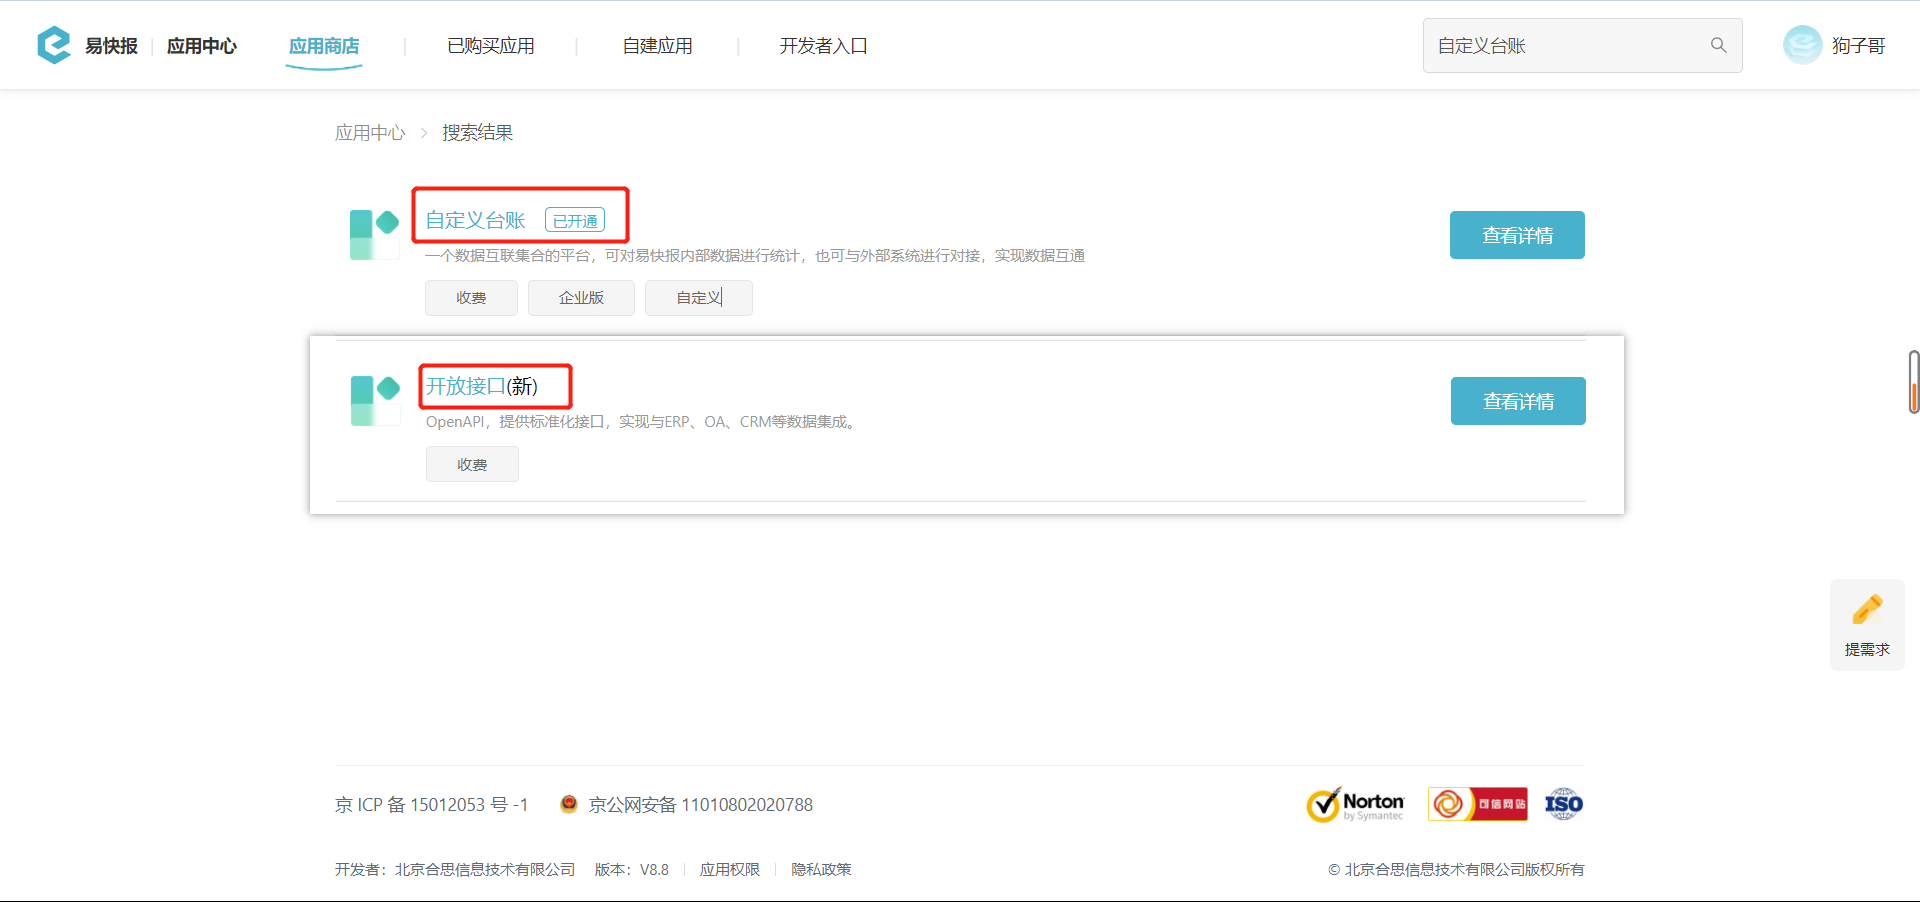
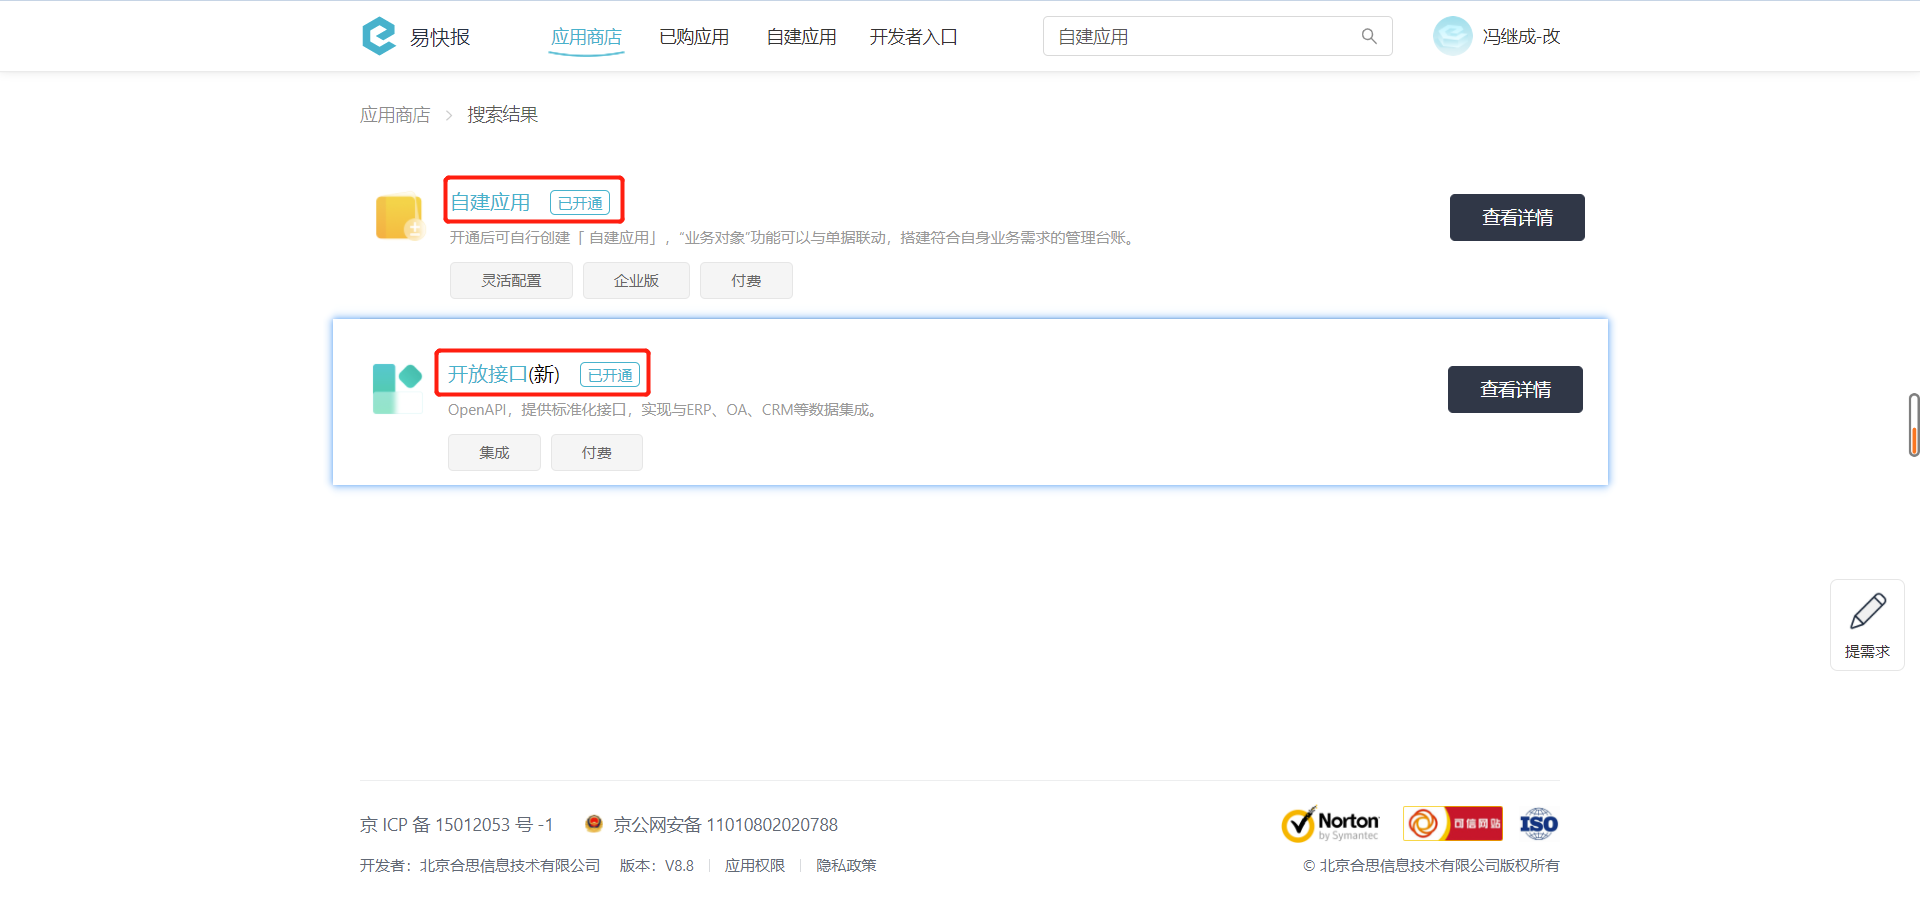
1.更新“开放接口（新）”获取秘钥的图片； 2.更新“自建应用”介绍图片；

diff --git a/sidebars.js b/sidebars.js
@@ -244,25 +244,25 @@ const sidebars = {
       type: "category",
       label: "扩展中心",
       items: [
-        "open-api/datalink/introduce2",
-        "open-api/datalink/get-entity-object",
-        "open-api/datalink/get-flow-invoice",
-        "open-api/datalink/get-entity-invoice",
-        "open-api/datalink/get-entity-invoic-details",
-        "open-api/datalink/get-entity-invoic-details-batch",
-        "open-api/datalink/riskTag",
-        "open-api/datalink/get-entity-private-car",
-        "open-api/datalink/get-entity-ele",
-        "open-api/datalink/get-entity-ik-crm",
-        "open-api/datalink/get-entity-travel",
-        "open-api/datalink/get-entity-invoice-img",
-        "open-api/datalink/get-settlement-list",
-        "open-api/datalink/ldap",
-        "open-api/datalink/get-costcenter-config",
-        "open-api/datalink/get-costcenter-instance",
-        "open-api/datalink/get-entity-unify-corporation",
-        "open-api/datalink/get-entity-unify-invoice",
-        "open-api/datalink/question-answer2"
+        "open-api/datalink-extend/introduce",
+        "open-api/datalink-extend/get-entity-object",
+        "open-api/datalink-extend/get-flow-invoice",
+        "open-api/datalink-extend/get-entity-invoice",
+        "open-api/datalink-extend/get-entity-invoic-details",
+        "open-api/datalink-extend/get-entity-invoic-details-batch",
+        "open-api/datalink-extend/riskTag",
+        "open-api/datalink-extend/get-entity-private-car",
+        "open-api/datalink-extend/get-entity-ele",
+        "open-api/datalink-extend/get-entity-ik-crm",
+        "open-api/datalink-extend/get-entity-travel",
+        "open-api/datalink-extend/get-entity-invoice-img",
+        "open-api/datalink-extend/get-settlement-list",
+        "open-api/datalink-extend/ldap",
+        "open-api/datalink-extend/get-costcenter-config",
+        "open-api/datalink-extend/get-costcenter-instance",
+        "open-api/datalink-extend/get-entity-unify-corporation",
+        "open-api/datalink-extend/get-entity-unify-invoice",
+        "open-api/datalink-extend/question-answer"
       ],
     },
     {

diff --git a/docs/open-api/datalink/introduce.md b/docs/open-api/datalink/introduce.md
@@ -6,26 +6,26 @@ authors: [张国阳]
 
 # 开始使用自建应用
 
-由于升级迭代，【自建应用】为原来的【自定义扩展】，【业务对象】分别为原来的【互联平台】、【数据实体】。
+---
+## 迭代更名图 
+
+![image](images/迭代图.png)
 
 ---
 ## 名词解释
 
 :::tip
-`自建应用` ：由客户的系统管理员，通过产品提供的可以高度自定义的功能，并结合OpenAPI等开放能力，自行搭建的个性化应用，仅在当前企业内生效，可以与企业内其他功能和应用结合。
-
-每个自建应用对应了一个外部系统，例如「销售易CRM」「致远OA」等。
-
-每个自建应用可以创建一个或多个业务对象，业务对象对应的是外部系统中的业务对象，例如「销售易CRM」中的「客户」「商机」「线索」。
-
-通过业务对象的定义，用户可在易快报系统中产生若干份对象实例，例如「销售易CRM」中的「客户」实体，有「客户1」「客户2」「客户3」三个实例。
+`自建应用/自定义扩展` ：由客户的系统管理员，通过产品提供的可以高度自定义的功能，并结合OpenAPI等开放能力，自行搭建的个性化应用，仅在当前企业内生效，可以与企业内其他功能和应用结合。
+- 每个自建应用对应了一个外部系统，例如「销售易CRM」、「致远OA」等。
+- 每个自建应用可以创建一个或多个业务对象，对应外部系统中的业务对象，例如「销售易CRM」中的「客户」、「商机」、「线索」。
+- 通过业务对象的定义，用户可在易快报系统中产生若干份对象实例，例如「销售易CRM」中的「客户」实体，有「客户1」、「客户2」、「客户3」三个实例。
 :::
 
-（1）创建自建应用
+### （1）创建自建应用
 
 ![image](images/自建应用/1.创建应用.png)
 
-（2）添加业务对象
+### （2）添加业务对象
 
 ![image](images/自建应用/2.添加业务对象.png)
 
@@ -39,9 +39,9 @@ authors: [张国阳]
 
 ---
 ## 使用前提
-在使用自建应用接口前，请确保您的企业已经开启了`开放接口(新)`与`自定义台账`功能。
+在使用自建应用接口前，请确保您的企业已经开启了 **【开放接口(新)】** 与 **【自建应用】** 功能。
 
-您可以联系您的实施顾问来开通此功能，也可以拨打客服热线`400-999-8293`获取更多支持。
+您可以联系您的实施顾问来开通此功能，也可以拨打客服热线 **400-999-8293** 获取更多支持。
 
 ![image](images/自建应用/1.没有相关charge.png)
 

diff --git a/docs/open-api/budget/budget-introduction.md b/docs/open-api/budget/budget-introduction.md
@@ -9,25 +9,25 @@ authors: [张国阳]
 ---
 ## 概念
 
-### 什么是“预算树”？
+### 1.什么是“预算树”？
 
-在易快报桌面端 `预算管理 > 预算包管理` 界面，每个“文件夹”代表了一个 `预算树` ， `预算树` 包括了若干个 `预算节点`。<br/>
-点击“文件夹”进入预算详情页，页面左侧树形列表的每个节点就是一个 `预算节点` 。
+在易快报桌面端 **预算管理 > 预算包管理** 界面，每个“文件夹”代表了一个 **预算树** ， **预算树** 包括了若干个 **预算节点**。<br/>
+点击“文件夹”进入预算详情页，页面左侧树形列表的每个节点就是一个 **预算节点** 。
 
-下图展示了 `预算树` 列表在产品界面上的展示，这个列表可通过[获取预算树列表](/docs/open-api/budget/get-budget-list)接口取得。
+下图展示了 **预算树** 列表在产品界面上的展示，这个列表可通过[获取预算树列表](/docs/open-api/budget/get-budget-list)接口取得。
 ![预算树](images/budgets_index.png)      
 
 ---
-### “预算节点”在哪里？
+### 2.“预算节点”在哪里？
 
-下图展示了[预算详情页](/docs/open-api/budget/get-budget-details)以及 `预算节点` 在产品界面上的展示。
+下图展示了[预算详情页](/docs/open-api/budget/get-budget-details)以及 **预算节点** 在产品界面上的展示。
 ![预算树详情](images/budget_info.png)
 
 ---
 ## 使用前提
-在使用预算包相关接口前，请确保您的企业已经开启了 **开放接口(新)** 与 **预算管理** 功能。
+在使用预算包相关接口前，请确保您的企业已经开启了 **【开放接口(新)】** 与 **【预算管理】** 功能。
     
-您可以联系您的实施顾问来开通此功能，也可以拨打客服热线 `400-999-8293` 获取更多支持。
+您可以联系您的实施顾问来开通此功能，也可以拨打客服热线 **400-999-8293** 获取更多支持。
 
 ![image](images/预算管理.png)
 

diff --git a/docs/open-api/getting-started/question-answer.md b/docs/open-api/getting-started/question-answer.md
@@ -6,29 +6,31 @@
 
 A：需要进入【易快报】-【应用中心】-【开放接口(新)】，然后创建或查看密钥。具体操作步骤如下：<br/>
 
-（1）应用中心入口
+#### （1）应用中心入口
 
 ![如何获取验证码](images/getAccessTokenNew1.png)
 
-（2）搜索开放接口
+#### （2）搜索“开放接口”
 
 ![如何获取验证码](images/getAccessTokenNew2.png)
 
-（3）击进入开放接口(新)详情
+#### （3）点击查看详情
 
 ![如何获取验证码](images/getAccessTokenNew3.png)
 
-（4）点击商品配置，会进入原来的页面
+#### （4）点击商品配置，查看接入账号和密码
 
-![如何获取验证码](images/getToken2.png)
+![如何获取验证码](images/getAccessTokenNew4.png)
+
+![如何获取验证码](images/getAccessTokenNew5.png)
 
 ---
 
 ## 问题二
 
-### Q：通过[访问临时授权](/docs/open-api/getting-started/temp-auth)接口取得的地址，跳转失败，显示404 Not Found 或者一直处于加载状态。
+### Q：通过[访问临时授权](/docs/open-api/getting-started/temp-auth)接口取得的地址，跳转失败，显示 “404 Not Found” 或者一直处于加载状态。
 
-A：请查看接口各个参数是否配置正确。`expireDate` 是否过短，造成访问时已超过使用期限。该参数最大可传604800，可根据实际需求调整。并且需要同时指定 `overdueTokenRedirect`，以防没有权限时重定向到指定页面。
+A：请查看接口各个参数是否配置正确。`expireDate` 是否过短，造成访问时已超过使用期限。该参数最大可传604800秒，可根据实际需求调整。另外可以指定 `overdueTokenRedirect`，以防授权过期时重定向到指定页面。
 
 ---
 

diff --git a/docs/open-api/getting-started/getting-started.md b/docs/open-api/getting-started/getting-started.md
@@ -3,7 +3,7 @@
 ---
 在调用接口之前，您需要先确认以下操作：
 
-1. 确保企业已经开启了 `开放接口(新)` 功能。您可以联系您的实施顾问来开通此功能。
+1. 确保企业已经开启了 **【开放接口(新)】** 功能。您可以联系您的实施顾问来开通此功能。
 2. 取得[地址前缀](/docs/open-api/getting-started/origin)。开放接口地址会随着易快报系统升级而变化。因此要确保每次调用使用的都是最新的地址前缀。
 3. 通过[授权](/docs/open-api/getting-started/auth)取得 `accessToken`。开放接口均使用 `accessToken` 鉴权，请妥善保管。
 

diff --git a/docs/open-api/contacts/contact-introduction.md b/docs/open-api/contacts/contact-introduction.md
@@ -12,7 +12,7 @@ authors: [冯继成]
 
 :::danger
 - **此套接口仅可用于易快报独立版。**  
-- 开通 **通讯录接口** 功能后，您将 **无法在易快报界面上维护通讯录（新增部门和员工等）**，只能通过接口更新和删除。
+- 开通 **【通讯录接口】** 功能后，您将 **无法在易快报界面上维护通讯录（新增部门和员工等）**，只能通过接口更新和删除。
 :::
 
 ---

diff --git a/docs/open-api/contacts/batch-add-staffs.md b/docs/open-api/contacts/batch-add-staffs.md
@@ -1,5 +1,5 @@
 # 批量新增员工
-当员工新增到企业后，该员工可通过 `快捷登录`（短信验证码登录）的方式进入易快报，或者通过 `忘记密码` 来设置密码。
+当员工新增到企业后，该员工可通过 **快捷登录**（短信验证码登录）的方式进入易快报，或者通过 **忘记密码** 来设置密码。
 
 import Control from "../../../components/Control";
 

diff --git a/docs/open-api/contacts/add-staffs.md b/docs/open-api/contacts/add-staffs.md
@@ -1,5 +1,5 @@
 # 新增员工
-当员工新增到企业后，该员工可通过 `快捷登录`（短信验证码登录）的方式进入易快报，或者通过 `忘记密码` 来设置密码。
+当员工新增到企业后，该员工可通过 **快捷登录**（短信验证码登录）的方式进入易快报，或者通过 **忘记密码** 来设置密码。
 
 import Control from "../../../components/Control";
 

diff --git a/docs/open-api/dimensions/get-dimensions.md b/docs/open-api/dimensions/get-dimensions.md
@@ -1,5 +1,5 @@
 # 获取自定义档案类别
-即易快报桌面端 `档案设置 > 扩展档案` 界面列表中展示的那些档案大类。例如 `项目` 就是一个自定义档案类别。
+即易快报桌面端 **档案设置 > 扩展档案** 界面列表中展示的那些档案大类。例如 **项目** 就是一个自定义档案类别。
 
 import Control from "../../../components/Control";
 

diff --git a/docs/open-api/getting-started/refresh-auth.md b/docs/open-api/getting-started/refresh-auth.md
@@ -10,7 +10,7 @@ url="/api/openapi/v2/auth/refreshToken"
 
 :::caution
 - 刷新后 `accessToken` 的有效期为默认32天。
-- 如果您企业的 **开放接口(新)** 功能授权不足32天，则刷新后有效期为实际剩余授权时间。
+- 如果您企业的 **【开放接口(新)】** 功能授权不足32天，则刷新后有效期为实际剩余授权时间。
 :::
 
 ## Query Parameters

diff --git a/docs/open-api/getting-started/refresh-auth-expireDate.md b/docs/open-api/getting-started/refresh-auth-expireDate.md
@@ -9,7 +9,7 @@ url="/api/openapi/v2/auth/refreshToken/expireDate"
 />
 
 :::caution
-- 如果您企业的 **开放接口(新)** 功能授权不足指定有效时间，则刷新后有效期为实际剩余授权时间。
+- 如果您企业的 **【开放接口(新)】** 功能授权不足指定有效时间，则刷新后有效期为实际剩余授权时间。
 :::
 
 ## Query Parameters

diff --git a/docs/open-api/contacts/relay-staff.md b/docs/open-api/contacts/relay-staff.md
@@ -1,5 +1,5 @@
 # 员工离职交接
-同系统中的【**离职交接**】功能。即在员工离职前，为需要他审批的单据指定新的审批人。
+同系统中的 **离职交接** 功能。即在员工离职前，为需要他审批的单据指定新的审批人。
 
 import Control from "../../../components/Control";
 
